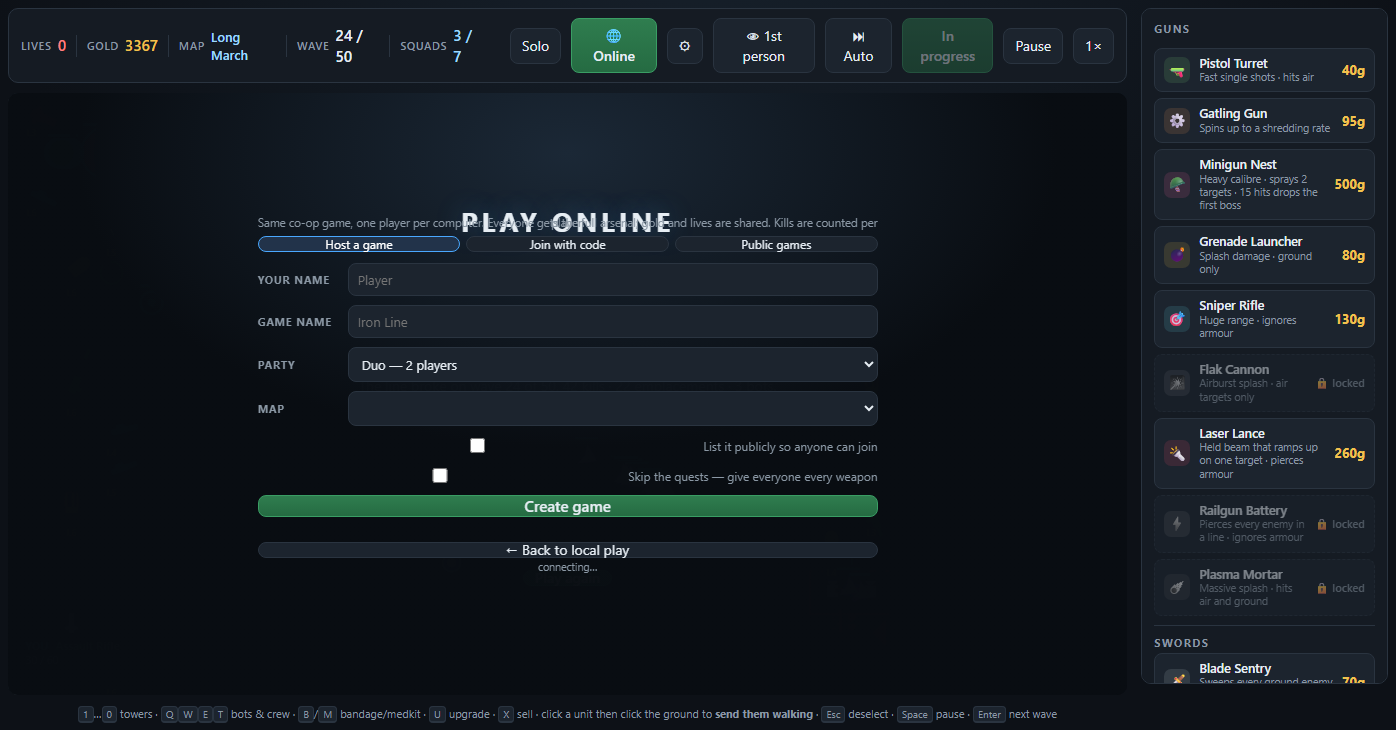
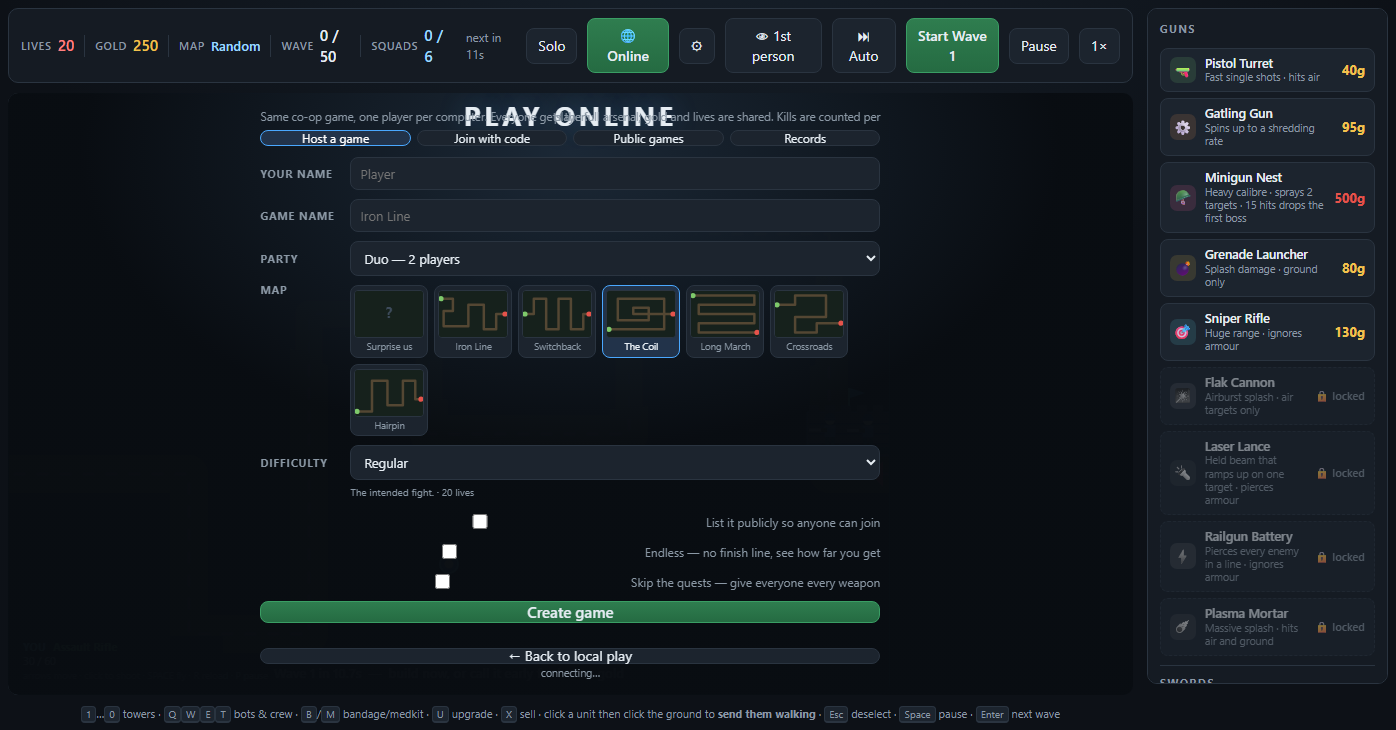
Map picker: draw each map instead of naming it
A list of names tells you nothing — "Hairpin" and "The Coil" only mean
something once you have played them. Each tile now renders the actual
road with a green entry and red exit dot, so you can pick on shape:
long straights suit snipers, tight switchbacks suit splash.

Two fixes fell out of building it:

  - The picker only ever populated from the server's `welcome`, so it
    was empty while offline or on a slow connection. It now fills from
    the client's own MAPS the moment the panel opens, and the server
    still overrides with the authoritative list.

  - The tiles are built from the <select>, not from MAPS, so a map the
    server offers but the client cannot draw is still pickable (it just
    gets the "?" tile) rather than silently missing.

diff --git a/iron-line.html b/iron-line.html
@@ -139,6 +139,14 @@
   .sNote{font-size:10px;color:var(--dim);line-height:1.5;margin-bottom:6px}
   #settings button:not(.sHead button){width:100%;font-size:11px;padding:5px}
   #sResetQuests{border-color:#5a3a3a;color:#ffb3ae}
+  /* ── map thumbnails ── */
+  .mapThumbs{display:flex;gap:6px;flex-wrap:wrap}
+  .mapThumb{padding:4px;border-radius:8px;background:var(--panel2);border:1px solid var(--line);
+    cursor:pointer;display:flex;flex-direction:column;gap:3px;align-items:center;width:78px}
+  .mapThumb.on{border-color:var(--acc);background:#22334a}
+  .mapThumb canvas{display:block;border-radius:4px;background:#16211c}
+  .mapThumb span{font-size:9.5px;color:var(--dim);line-height:1.2;text-align:center}
+  .mapThumb.on span{color:var(--ink)}
   /* ── quests ── */
   .qst{display:flex;flex-direction:column;gap:3px;padding:6px 8px;border-radius:8px;
     background:var(--panel2);border:1px solid var(--line);margin-bottom:5px}
@@ -432,7 +440,9 @@
                 <option value="3">Trio — 3 players</option>
                 <option value="4">Squad — 4 players</option>
               </select></div>
-            <div class="fRow"><label>Map</label><select id="roomMap"></select></div>
+            <div class="fRow" style="align-items:flex-start"><label style="padding-top:5px">Map</label>
+              <div class="mapThumbs" id="roomMapThumbs" style="flex:1"></div></div>
+            <select id="roomMap" style="display:none"></select>
             <div class="fRow"><label>Difficulty</label><select id="roomDiff"></select></div>
             <div class="sNote" id="roomDiffNote" style="margin:-4px 0 2px 90px"></div>
             <label class="chk"><input type="checkbox" id="roomPublic"> List it publicly so anyone can join</label>
@@ -780,6 +790,12 @@ try{ const d=localStorage.getItem(DIFFKEY); if(DIFFICULTY[d]) DIFF=d; }catch(_){
 const PARTY_COEFF=0.8;
 const partyScale=p=>1+PARTY_COEFF*(Math.max(1,p)-1);
 const bossRamp=n=>(n>=12?1:0.45+0.55*Math.max(0,n-5)/7);
+// Late-game escalation, mirroring the server. Enemy headcounts are clamped per
+// type and those clamps bind by about wave 20; without these a wave only ever
+// got tankier, never bigger, and a full board of maxed turrets was never
+// threatened again. Waves 1-25 are unchanged.
+const lateHp=n=>1+Math.max(0,n-25)*0.12;
+const lateCount=n=>1+Math.max(0,n-25)*0.02;
 
 const MAXWAVE=50;
 // How long THIS run is. Offline it is always 50; online the server decides
@@ -793,8 +809,8 @@ const armorOf = (base,n) => base + Math.floor(n/6);
 
 function waveDef(n,players,diffKey){
   const P=players||(G?G.players:1)||1, D=diffOf(diffKey||DIFF);
-  const mul=partyScale(P)*D.count, gm=Math.sqrt(mul);
-  const cap=(x,m)=>Math.max(1,Math.min(Math.round(m*mul),Math.round(x*mul)));
+  const mul=partyScale(P)*D.count, gm=Math.sqrt(mul), late=lateCount(n);
+  const cap=(x,m)=>Math.max(1,Math.min(Math.round(m*mul*late),Math.round(x*mul*late)));
   const m=n*2;                                  // curve compressed into half the waves
   const w=[{t:'grunt', c:cap(6+m*1.15,34), g:Math.max(.22,.85-m*.012)/gm}];
   if(n>=2) w.push({t:'runner', c:cap(3+m*.7,26), g:Math.max(.18,.45-m*.004)/gm});
@@ -927,7 +943,7 @@ function spawn(type){
   const b=ENEMIES[type];
   const hp=(type==='ultra'? bossHp(G.wave)*4.5
            : type==='boss' ? bossHp(G.wave)*bossRamp(G.wave)
-           : b.hp*hpScale(G.wave))*(G.admin.hpMul||1)*diffOf(DIFF).hp;
+           : b.hp*hpScale(G.wave))*(G.admin.hpMul||1)*diffOf(DIFF).hp*lateHp(G.wave);
   const p=b.fly?AIRPATH:PATH;
   G.enemies.push({type,x:p[0].x,y:p[0].y,wp:1,hp,maxhp:hp,
     speed:b.speed*(type==='boss'?1:(.94+Math.random()*.12)),
@@ -4083,6 +4099,70 @@ $('bFP').onclick=()=>{ FP.on?exitFP():enterFP(); };
 $('aClose').onclick=()=>toggleAdmin(false);
 
 // ───────────────────────────── lobby
+// ───────────────────────────── map thumbnails
+//
+// A list of names tells you nothing — "Hairpin" and "The Coil" are only
+// meaningful once you have played them. Drawing the actual road lets you pick
+// on shape: long straights suit snipers, tight switchbacks suit splash.
+function drawMapThumb(cv2,way){
+  const g=cv2.getContext('2d'), W2=cv2.width, H2=cv2.height;
+  g.clearRect(0,0,W2,H2);
+  g.fillStyle='#16211c'; g.fillRect(0,0,W2,H2);
+  if(!way||way.length<2){                        // the "surprise us" tile
+    g.fillStyle='#3d4b5a'; g.font='bold 15px Segoe UI,sans-serif';
+    g.textAlign='center'; g.textBaseline='middle';
+    g.fillText('?',W2/2,H2/2);
+    return;
+  }
+  const sx=W2/COLS, sy=H2/ROWS;
+  g.strokeStyle='#544733'; g.lineWidth=Math.max(2.5,sy*0.62);
+  g.lineJoin='round'; g.lineCap='round';
+  g.beginPath();
+  way.forEach(([c,r],i)=>{
+    const x=(c+0.5)*sx, y=(r+0.5)*sy;
+    i?g.lineTo(x,y):g.moveTo(x,y);
+  });
+  g.stroke();
+  // entry and exit, so the direction of travel reads at a glance
+  const a=way[0], b=way[way.length-1];
+  g.fillStyle='#7ec96b'; g.beginPath();
+  g.arc(Math.max(2,(a[0]+0.5)*sx),(a[1]+0.5)*sy,2.6,0,TAU); g.fill();
+  g.fillStyle='#e5534b'; g.beginPath();
+  g.arc(Math.min(W2-2,(b[0]+0.5)*sx),(b[1]+0.5)*sy,2.6,0,TAU); g.fill();
+}
+function paintMapThumbs(){
+  const box=$on('roomMapThumbs'); if(!box) return;
+  const sel=$on('roomMap'), cur=sel.value||'random';
+  box.innerHTML='';
+  // Drive the tiles off the <select>, not off MAPS — the server's list is the
+  // authoritative one, and a map we cannot draw should still be pickable (it
+  // just gets the "?" tile) rather than silently missing from the picker.
+  const byName=new Map(MAPS.map(m=>[m.name,m.way]));
+  const entries=[...sel.options].map(o=>({
+    name:o.value,
+    label:o.value==='random'?'Surprise us':o.value,
+    way:byName.get(o.value)||null,
+  }));
+  for(const e of entries){
+    const b=document.createElement('button');
+    b.className='mapThumb'+(e.name===cur?' on':'');
+    b.type='button';
+    const cvs=document.createElement('canvas'); cvs.width=68; cvs.height=46;
+    b.appendChild(cvs);
+    const lab=document.createElement('span'); lab.textContent=e.label;
+    b.appendChild(lab);
+    b.onclick=()=>{
+      if(NET.room&&!NET.isHost) return;
+      SOUND.ui();
+      sel.value=e.name;
+      sel.dispatchEvent(new Event('change'));
+      paintMapThumbs();
+    };
+    box.appendChild(b);
+    drawMapThumb(cvs,e.way);
+  }
+}
+
 // ───────────────────────────── difficulty pickers
 function setDifficulty(k){
   if(!DIFFICULTY[k]) return;
@@ -4724,6 +4804,7 @@ function kitLabel(pl,n){ const save=PLAYERS; PLAYERS=n; const s=kitName(pl); PLA
 // server's `welcome` — which is authoritative, since the server is the one that
 // actually has to honour the choice.
 function netFillMaps(maps){
+  // (thumbnails are drawn from the client's own MAPS, so they need no server data)
   const sel=$on('roomMap');
   const keep=sel.value;
   const list=(maps&&maps.length)?maps:MAPS.map(m=>m.name);
@@ -4731,6 +4812,7 @@ function netFillMaps(maps){
     +list.map(m=>`<option value="${escHtml(m)}">${escHtml(m)}</option>`).join('');
   if(keep) sel.value=keep;
   if(!sel.value) sel.value='random';
+  paintMapThumbs();
 }
 function paintNetStatus(){
   const el=$on('onNet');
@@ -4788,7 +4870,7 @@ function paintRoom(m){
   }
   // host-only controls reflect the room, everyone else just sees the result
   $on('roomSize').value=String(NET.room.partySize);
-  $on('roomMap').value=NET.room.map;
+  $on('roomMap').value=NET.room.map; paintMapThumbs();
   $on('roomPublic').checked=NET.room.isPublic;
   $on('roomUnlock').checked=NET.room.allUnlocked;
   for(const el of ['roomSize','roomMap','roomPublic','roomUnlock','roomEndless','roomName','roomDiff'])
@@ -4893,6 +4975,10 @@ for(const id of ['boardDiff','boardParty','boardKind'])
 function openOnline(){
   $on('online').classList.remove('hide');
   $on('hostName').value=$on('joinName').value=NET.name||netNameGet();
+  // Populate the picker from our own MAPS right away. The server's `welcome`
+  // overrides it a moment later, but the panel must never open empty — if the
+  // connection is slow or down, an empty map picker looks like a broken game.
+  netFillMaps(null);
   NET.want=true; NET.tries=0;
   netConnect();
   if(NET.state==='connected') netSend({type:'list'});
